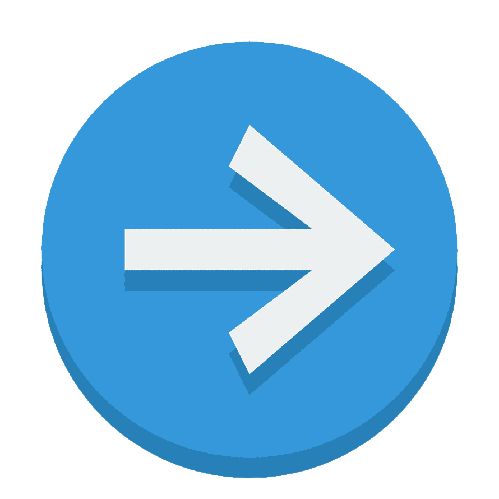
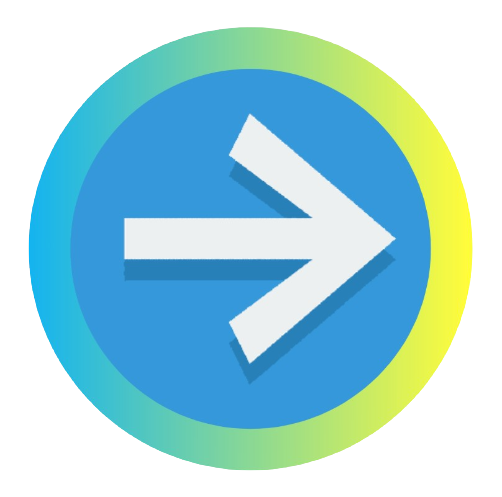
next page button modified

Changed region(s): [[0.0301, 0.0302, 0.9619, 0.9658], [0.2405, 0.2716, 0.8116, 0.7847], [0.481, 0.2113, 0.5711, 0.3018]]

diff --git a/miauapp/src/reactComponents/components/styles.css b/miauapp/src/reactComponents/components/styles.css
@@ -88,9 +88,8 @@
   height: 8em;
   width: 8em;
   background-size: 100%;
-  border-radius: 3.9em;
-  border-style: inset;
-  border-color: #13B3F0;
+  border: none;
+  outline: none;
 }
 
 .disabled-button-overlay {
